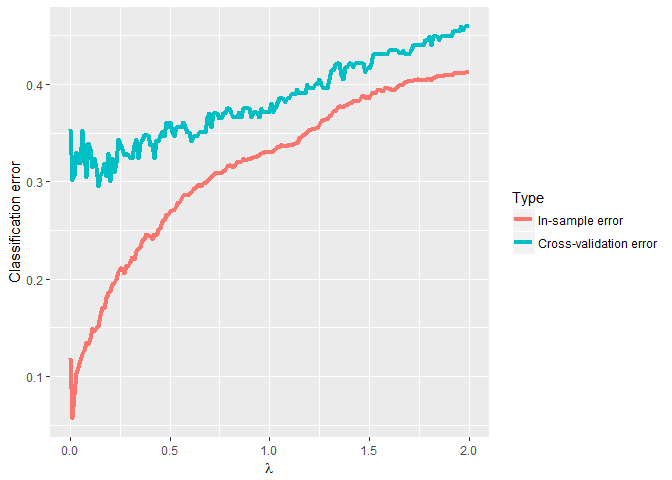
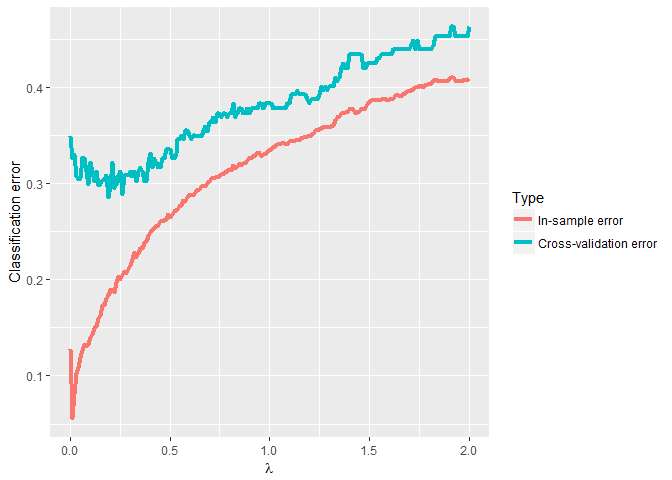
update

diff --git a/neural_network/neuralnetwork_nnet.md b/neural_network/neuralnetwork_nnet.md
@@ -120,7 +120,7 @@ The value of the weight decay parameter that results in the lowest cross-validat
 lambda[which.min(Ecv)]
 ```
 
-    ## [1] 0.14
+    ## [1] 0.19
 
 We can see from the following graph that the in-sample error (red line) increases as the weight decay parameter lambda gets larger. This is because what lambda does is essentially to constrain the extent to which the weights of the model can vary to capture the training data points. This results in a higher in-sample error. However, by constraining the variation of the weights, we can potentially obtain a better out-of-sample performance as shown by the decreasing cross-validation error (blue line) up to the optimal point when the cross-validation error is the lowest.
 
@@ -146,7 +146,7 @@ nnglass <- nnet(X, Y, size =10, rang = 0.1,decay =lambda[which.min(Ecv)], maxit 
 min(Ecv)
 ```
 
-    ## [1] 0.2954286
+    ## [1] 0.2851429
 
 Made with a visualization tool created by Beck MW, the following graph shows the structure of the trained neural network which contains 8 inputs, 10 hidden units in 1 layer and 6 outputs.
 

diff --git a/neural_network/building_neuralnetwork.md b/neural_network/building_neuralnetwork.md
@@ -32,7 +32,7 @@ I am going to build a neural network for multiclass classification so my output 
 ``` r
 library(dplyr)
 ## Data
-data <- read.table("C:/Users/client/Desktop/data/glass.data",dec=".",sep=",")
+data <- read.table("glass.data",dec=".",sep=",")
 X_1 <- data %>% select(-c(V1,V2,V11)) %>%
   apply(2,FUN=function(column){return((column-mean(column))/sd(column))} )
 n_data <- nrow(X_1)
